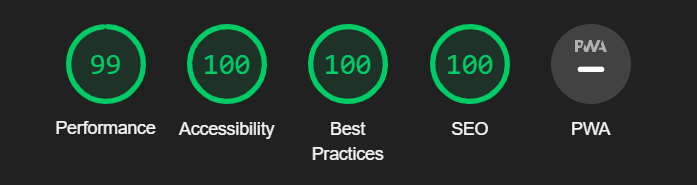
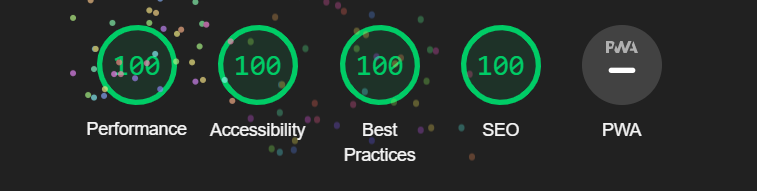
docs: update lighthouse testing for desktop version

diff --git a/README.md b/README.md
@@ -125,6 +125,8 @@ Voces Creo is a chamber choir based in Dublin, Ireland, and was founded in 2020.
 ### Lighthouse Testing
 
 - Desktop Version
+    - All pages achieve full mark of 100 for Performance except for the index page which has a score of 99. 
+    - The scores for Accessibility, Best Practices and SEO are the same across all pages.
     - ![Desktop Version](https://github.com/celine-14/first-portfolio/blob/main/docs/screenshots/lighthouse_testing_desktop.png?raw=true)
 
 
